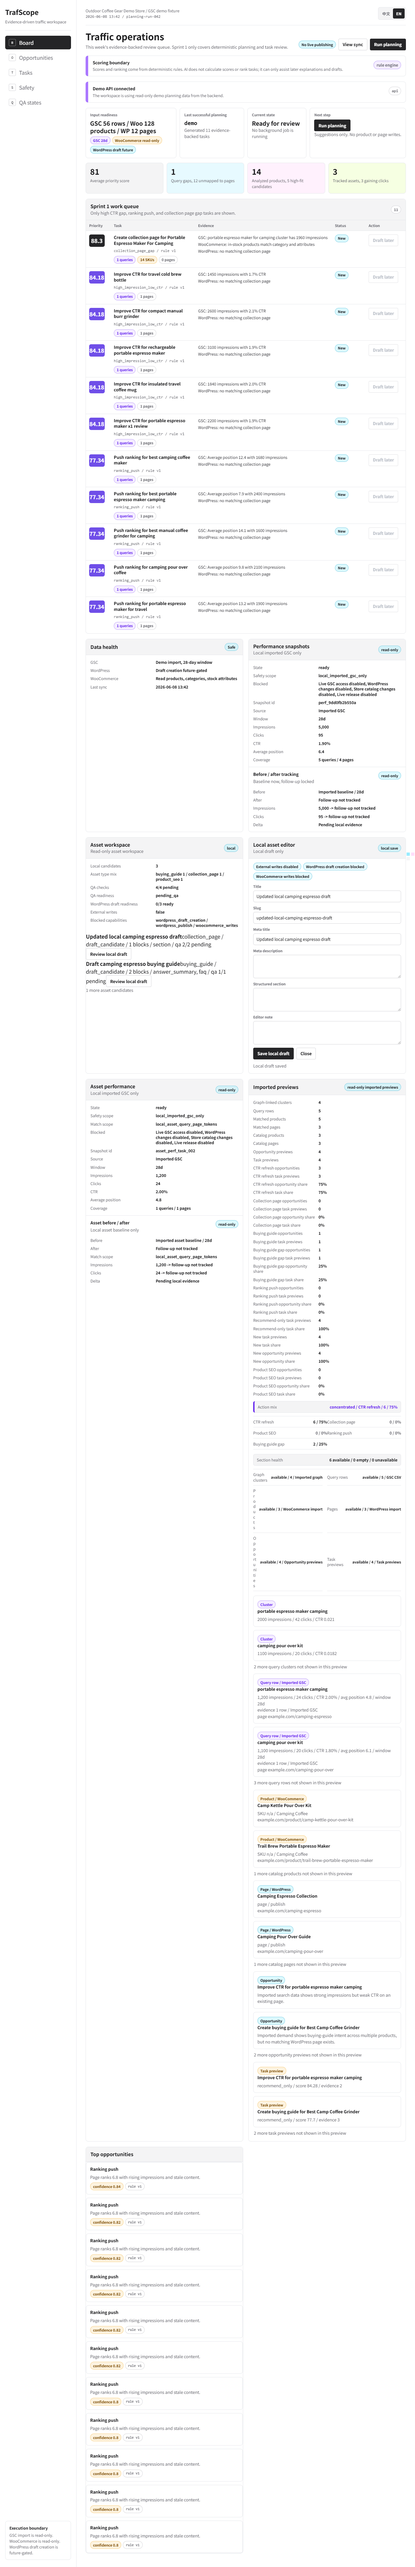
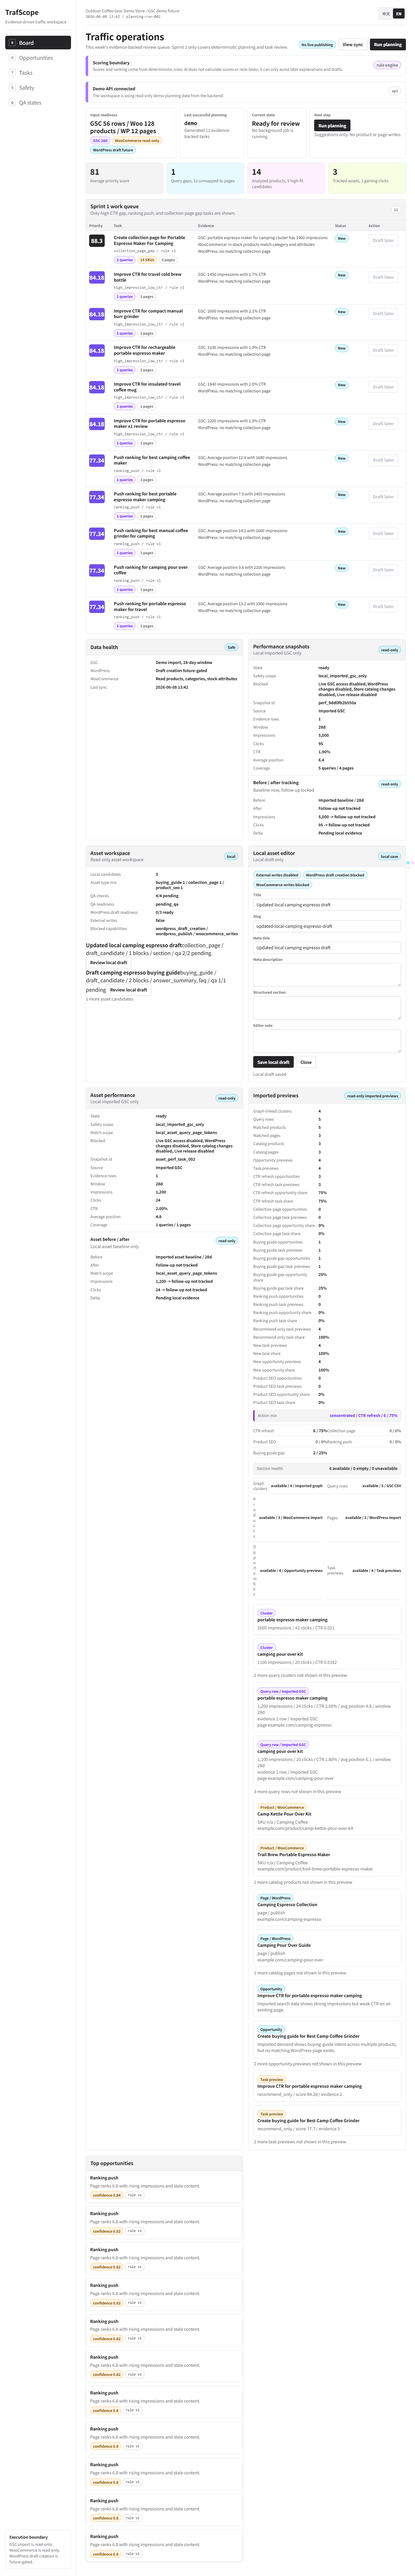
Add performance evidence count diagnostics

diff --git a/apps/web/app/App.tsx b/apps/web/app/App.tsx
@@ -1314,6 +1314,10 @@ function PerformanceSnapshotPanel({
               <span>Source</span>
               <strong>{primarySnapshot.source}</strong>
             </div>
+            <div className="kv-row" data-performance-metric="evidence_count">
+              <span>{locale === "zh" ? "证据行" : "Evidence rows"}</span>
+              <strong>{primarySnapshot.evidence.length}</strong>
+            </div>
             <div className="kv-row" data-performance-metric="window">
               <span>{copy.window}</span>
               <strong>{primarySnapshot.window}</strong>
@@ -1708,6 +1712,10 @@ function AssetPerformancePanel({
             <div className="kv-row" data-asset-performance-metric="source">
               <span>Source</span>
               <strong>{primarySnapshot.source}</strong>
+            </div>
+            <div className="kv-row" data-asset-performance-metric="evidence_count">
+              <span>{locale === "zh" ? "证据行" : "Evidence rows"}</span>
+              <strong>{primarySnapshot.evidence.length}</strong>
             </div>
             <div className="kv-row" data-asset-performance-metric="window">
               <span>{copy.window}</span>

diff --git a/docs/automation-task-board.md b/docs/automation-task-board.md
@@ -4,7 +4,7 @@ Date: 2026-06-08
 
 This board is the execution source of truth for the current sprint builder loop. Work proceeds from the highest-priority incomplete item that is not blocked.
 
-Current loop: Sprint 3 performance snapshot id diagnostics are verified. Live integration work remains blocked on credentials and boundary approval. Scope stays safe: local/demo/imported data only, no real GSC OAuth, no WooCommerce writes, and no WordPress publishing.
+Current loop: Sprint 3 performance evidence count diagnostics are verified. Live integration work remains blocked on credentials and boundary approval. Scope stays safe: local/demo/imported data only, no real GSC OAuth, no WooCommerce writes, and no WordPress publishing.
 
 ## Status Legend
 
@@ -25,7 +25,7 @@ These are internal execution-board statuses, not TrafScope product task review s
 | Product Manager | Main thread | Keep Sprint 2 local/import-only boundaries explicit and sequence QA-only follow-up tasks. |
 | Backend/API Engineer | Main thread | Preserve existing read-only imported APIs; no live credentials, OAuth, publishing, or commerce writes. |
 | Frontend Product Engineer | Main thread | Implement safe imported preview view-model/UI improvements with contract coverage. |
-| QA Lead | Ptolemy / Main thread | Verify imported preview partial-failure browser coverage and no-control safety checks. |
+| QA Lead | Hypatia / Main thread | Verify performance evidence count diagnostics and no-control safety checks. |
 | UI Systems Engineer | Main thread | Keep imported preview cards compact, bilingual-safe, text-only, and free of external navigation controls. |
 
 ## Task Queue
@@ -228,6 +228,7 @@ These are internal execution-board statuses, not TrafScope product task review s
 | TASK-S3-QA-060 | 194 | done | Frontend Product Engineer / QA Lead | Add asset performance comparison empty/unavailable diagnostics. | Browser smoke verifies the asset before/after comparison section remains visible with stable empty and unavailable DOM diagnostics when a selected local asset has no matching imported GSC snapshot or the read fails, while preserving `local_asset_query_page_tokens` and exposing no refresh, sync, credential, WordPress draft/page update, publish, navigation, or commerce-write controls. |
 | TASK-S3-QA-061 | 195 | done | Frontend Product Engineer / QA Lead | Add performance source diagnostics. | Store and asset performance panels expose stable read-only `Imported GSC` source diagnostics for local snapshots and still expose no refresh, sync, credential, WordPress draft/page update, publish, navigation, or commerce-write controls. |
 | TASK-S3-QA-062 | 196 | done | Frontend Product Engineer / QA Lead | Add performance snapshot id diagnostics. | Store and asset performance panels expose stable read-only local snapshot id diagnostics for populated snapshots and still expose no refresh, sync, credential, WordPress draft/page update, publish, navigation, or commerce-write controls. |
+| TASK-S3-QA-063 | 197 | done | Frontend Product Engineer / QA Lead | Add performance evidence count diagnostics. | Store and asset performance panels expose stable read-only evidence count diagnostics for populated local imported GSC snapshots and still expose no refresh, sync, credential, WordPress draft/page update, publish, navigation, or commerce-write controls. |
 
 ## Blockers
 
@@ -602,6 +603,7 @@ These are internal execution-board statuses, not TrafScope product task review s
 - Asset performance comparison empty/unavailable diagnostics are verified by red-green browser smoke coverage that first failed when `.asset-performance-comparison-panel` disappeared for an asset with no local imported GSC match, then passed with stable empty/unavailable keys, `local_asset_query_page_tokens`, zero comparison metric rows, GET-only asset performance reads, and no refresh, sync, credential, draft, publish, navigation, or commerce-write controls.
 - Performance source diagnostics are verified by red-green static and browser coverage that first failed on the missing source metric rows, then passed with stable `Imported GSC` source rows in store and asset performance panels while preserving GET-only reads and no refresh, sync, credential, draft, publish, navigation, or commerce-write controls.
 - Performance snapshot id diagnostics are verified by red-green static and browser coverage that first failed on the missing snapshot id metric rows, then passed with stable store and selected-asset snapshot ids while preserving GET-only reads and no refresh, sync, credential, draft, publish, navigation, or commerce-write controls.
+- Performance evidence count diagnostics are verified by red-green static and browser coverage that first failed on the missing evidence count metric rows, then passed with stable store and selected-asset evidence counts while preserving GET-only reads and no refresh, sync, credential, draft, publish, navigation, or commerce-write controls.
 
 ## Completion Rule
 

diff --git a/docs/sprint-3-performance-snapshot-ui-contract.md b/docs/sprint-3-performance-snapshot-ui-contract.md
@@ -26,6 +26,7 @@ Allowed display fields:
 - Page count.
 - Before/after tracking state.
 - Imported baseline snapshot id.
+- Evidence row count.
 - Follow-up state when after metrics are not yet tracked.
 - Empty and unavailable comparison diagnostics.
 - Blocked capabilities.
@@ -95,6 +96,7 @@ Implemented foundation:
 - Browser smoke verifies asset before/after comparison empty and unavailable states stay visible with stable local-only keys, preserve `local_asset_query_page_tokens`, render zero populated comparison metric rows, and expose no refresh, sync, credential, WordPress, publish, navigation, or commerce-write controls.
 - Store and asset performance panels expose a stable read-only `Imported GSC` source diagnostic from the safe frontend adapter without exposing raw live source labels or adding refresh, sync, credential, WordPress, publish, navigation, or commerce-write controls.
 - Store and asset performance panels expose stable read-only local snapshot id diagnostics for populated imported GSC baselines without adding refresh, sync, credential, WordPress, publish, navigation, or commerce-write controls.
+- Store and asset performance panels expose stable read-only evidence count diagnostics for populated imported GSC baselines without adding refresh, sync, credential, WordPress, publish, navigation, or commerce-write controls.
 
 Still gated:
 
